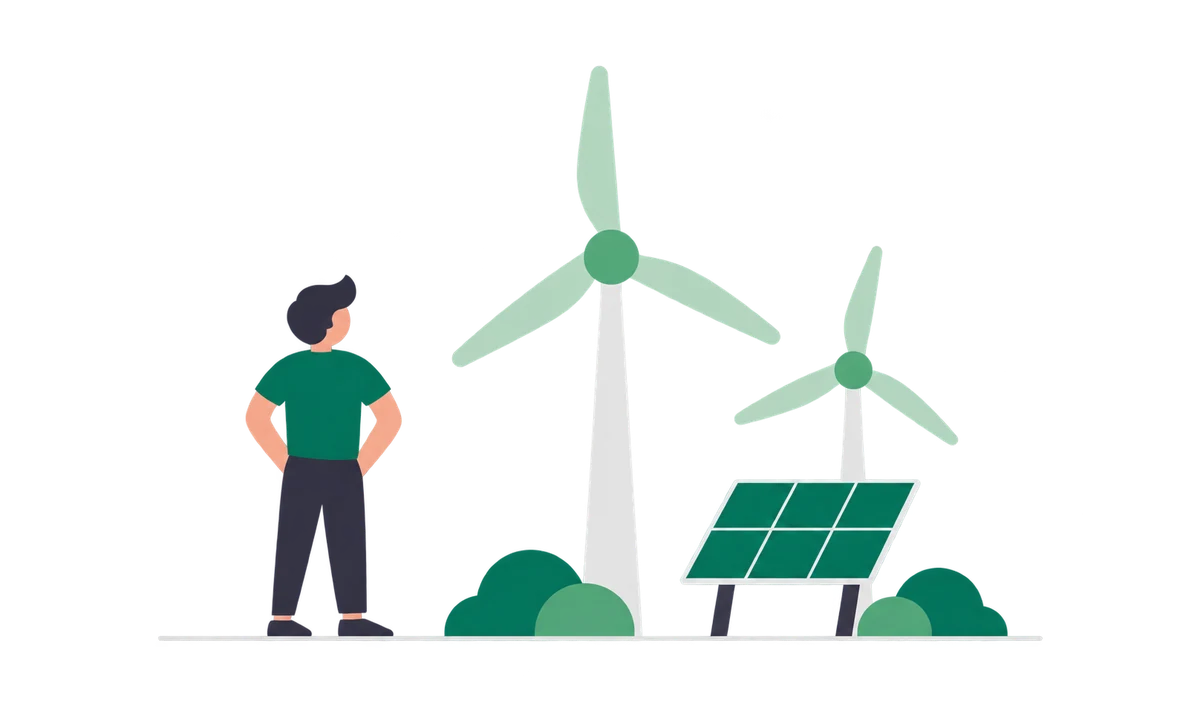
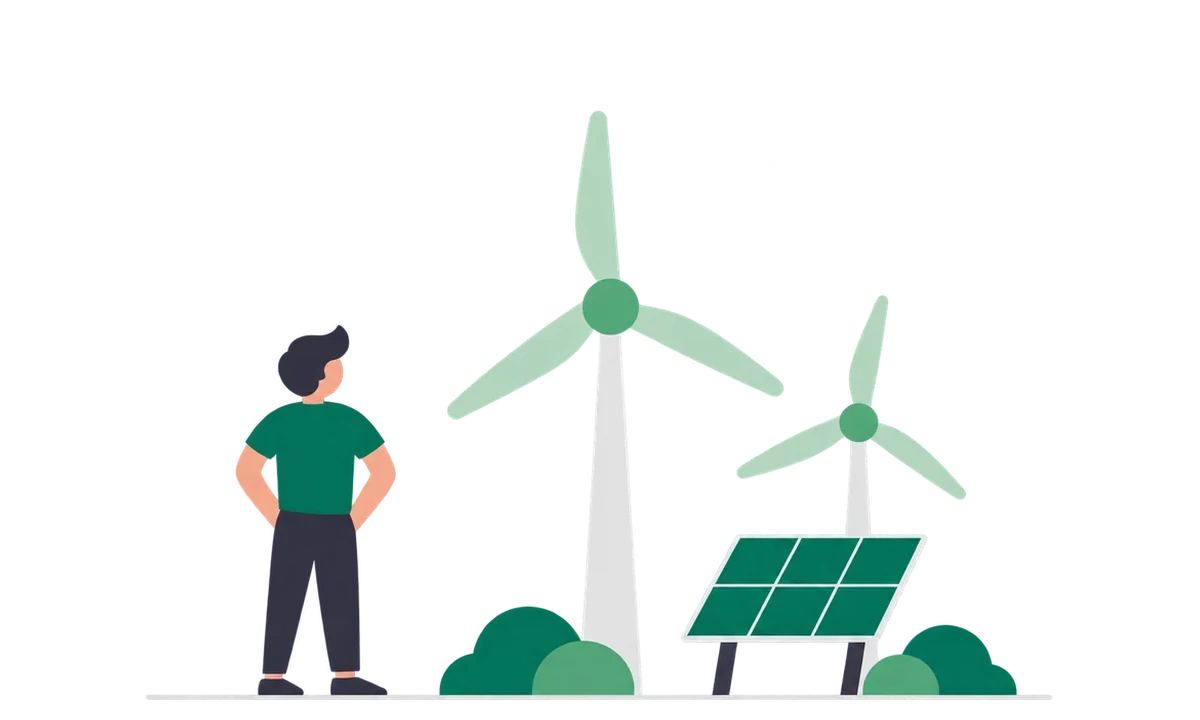
feat: illustrations at one larger scale on a shared ground line

Changed region(s): [[0.1233, 0.0917, 0.8633, 0.9778]]

diff --git a/hub/static/style.css b/hub/static/style.css
@@ -10,7 +10,7 @@
 
 /* Categories and tools from tools.json (27 cards, 3 per row). The header is the name in lower case and a green dot, no mark. */
 .brand{gap:0}.card-grid{grid-template-columns:repeat(3,minmax(0,1fr));gap:20px}.card-visual{height:210px}.card-top{justify-content:space-between;padding:14px 23px 10px}.card-status{font-size:13px;font-weight:600;color:var(--muted)}.card-status.live{color:var(--green)}.tool-card.soon .arrow{color:var(--muted)}.card-copy h4{font-size:27px;letter-spacing:-.045em;line-height:1.1;margin:0 0 9px}.card-copy p{min-height:0}.card-cta{margin-top:20px}
-.soon-visual{background:linear-gradient(180deg,#f4f9f5,#e9f3ec)}.soon-visual img{display:block;width:100%;height:100%;object-fit:contain;padding:22px 26px}
+.soon-visual{background:linear-gradient(180deg,#f4f9f5,#e9f3ec)}.soon-visual img{display:block;width:100%;height:100%;object-fit:contain;padding:8px 10px}
 .group-nav{display:flex;flex-wrap:wrap;gap:8px 24px;margin:0 0 8px}.group-nav a{font-size:15px;font-weight:600;color:var(--muted)}.group-nav a:hover{color:var(--green)}
 .group{margin-top:38px}.group-head{display:flex;align-items:baseline;justify-content:space-between;border-top:1px solid var(--line);padding:18px 0 16px}.group-head h3{font-size:30px;letter-spacing:-.05em;margin:0}.group-head span{font-size:14px;color:var(--muted)}
 .tool-page{padding:clamp(40px,4vw,64px) clamp(24px,10vw,150px) 80px}.crumbs{display:flex;gap:10px;font-size:14px;color:var(--muted);margin-bottom:26px}.crumbs a:hover{color:var(--green)}.tool-page h1{font-size:clamp(46px,5.4vw,76px);letter-spacing:-.065em;line-height:1;margin:12px 0 16px}.tool-line{color:var(--muted);font-size:clamp(18px,1.6vw,21px);max-width:640px;margin:0}.tool-visual{height:320px;margin:34px 0 40px}.tool-cols{display:grid;grid-template-columns:1fr 1fr;gap:48px;margin-bottom:44px}.tool-cols h2{font-size:24px;letter-spacing:-.04em;margin:0 0 12px}.tool-cols h2+p,.tool-cols ul{margin:0 0 26px;line-height:1.5}.tool-cols ul{padding-left:20px}.tool-cols li{margin-bottom:8px}.tool-cols a{color:var(--green);border-bottom:1px solid #a1c9b2}.tool-page .text-link span{margin:0 10px 0 0}

diff --git a/hub/tools/fit_illustrations.py b/hub/tools/fit_illustrations.py
@@ -1,0 +1,35 @@
+"""Bring every card illustration to one scale: crop to the drawing, resize it to the same visual size, sit it on one ground line.
+
+Run after adding or replacing a file in static/illustrations/. Rerunning is safe: an already fitted file is left alone.
+"""
+from pathlib import Path
+
+from PIL import Image
+
+DIR = Path(__file__).resolve().parent.parent / "static" / "illustrations"
+W, H = 1200, 720
+MAX_W, MAX_H = 1130, 660  # the drawing never goes closer than 35 px to the sides, 30 px to the top
+BASE = 700                # bottom of every drawing (its ground line) sits here
+AREA = 0.62 * W * H       # same visual size: equal bounding-box area, unless that breaks MAX_W/MAX_H
+
+
+def fit(img):
+    img = img.convert("RGBA")
+    box = img.getchannel("A").point(lambda a: 255 if a > 20 else 0).getbbox()
+    art = img.crop(box)
+    w, h = art.size
+    s = min(MAX_W / w, MAX_H / h, (AREA / (w * h)) ** 0.5)
+    nw, nh = round(w * s), round(h * s)
+    if abs(s - 1) < 0.02 and box[3] in range(BASE - 2, BASE + 3):
+        return None  # already fitted
+    out = Image.new("RGBA", (W, H), (0, 0, 0, 0))
+    out.paste(art.resize((nw, nh), Image.LANCZOS), ((W - nw) // 2, BASE - nh))
+    return out
+
+
+if __name__ == "__main__":
+    for f in sorted(DIR.glob("*.webp")):
+        out = fit(Image.open(f))
+        if out:
+            out.save(f, "WEBP", quality=88, method=6)
+            print("fitted", f.name, f.stat().st_size // 1024, "KB")

diff --git a/hub/static/illustrations/LICENSE.md b/hub/static/illustrations/LICENSE.md
@@ -9,7 +9,11 @@ content“, казват: „you … own the Output. We hereby assign to you all
 any, in and to Output.“ Уговорка там: изходът може да не е уникален и други потребители може да
 получат подобен.
 
-**Формат.** WebP 1200 × 720 (5:3), прозрачен фон, 40-80 KB. Фонът идва от картона на хъба.
+**Формат.** WebP 1200 × 720 (5:3), прозрачен фон, 20-70 KB. Фонът идва от картона на хъба.
+**Мащаб.** Всички са приведени с `tools/fit_illustrations.py` (27.09.2026): рисунката е изрязана от
+празното и увеличена до еднаква площ (около 62% от платното), но не по-широка от 1130 px и не
+по-висока от 660 px. Долният ѝ край (линията на земята) е на y = 700 при всички. Широките сцени
+(Имоти, Парламент, Пътна обстановка) опират в ширината и затова изглеждат малко по-ниски.
 Оригиналите PNG 1619 × 971 са в историята на git (commit „Add files via upload“, 27.09.2026) и при
 собственика.
 
@@ -17,8 +21,8 @@ any, in and to Output.“ Уговорка там: изходът може да 
 - плоски векторни сцени, няколко големи форми, един-двама души без черти на лицето, без контури,
   градиенти, сенки и текстури;
 - гама: `#08785c`, `#5cad82`, `#b4d7bf`, `#2f2e41`, `#3f3d56`, `#e6e6e6`, кожа `#e8a88f`;
-- 5:3, прозрачен фон, обект в средата около 70% от ширината, тънка светлосива линия на земята около
-  85% от височината, всичко на една линия;
+- 5:3, прозрачен фон, тънка светлосива линия на земята, всичко на една линия (размерът и
+  положението после ги уеднаквява `tools/fit_illustrations.py`);
 - без текст и цифри; знакът € само в Еврофондове.
 
 | Файл | Сцена |

diff --git a/hub/README.md b/hub/README.md
@@ -11,7 +11,9 @@
   адрес от env (`TENDER_URL`, `ROAD_URL`). При грешка в списъка хъбът отказва да стартира.
 - **Картони:** всеки инструмент, работещ или в подготовка, има илюстрация `static/illustrations/<слъг>.webp` (1200 × 720, прозрачен
   фон, генерирани с GPT Image; права, стил и правила за нови в
-  [static/illustrations/LICENSE.md](static/illustrations/LICENSE.md)).
+  [static/illustrations/LICENSE.md](static/illustrations/LICENSE.md)). След всяка нова или сменена
+  илюстрация се пуска `python tools/fit_illustrations.py`: изрязва празното, привежда рисунката до
+  общия размер и я слага на общата линия на земята (y = 700), за да са всички картони в един мащаб.
 - **`/instrumenti/<слъг>`**: страница за инструмент в подготовка: на какво ще отговаря, източници,
   какво още не знаем. **`/tools.json`**: списъкът за другите инструменти (напр. Моята община).
 - **Нов инструмент заработи:** в `tools.json` се сменя `status` на `active`, добавят се `url_env` и
